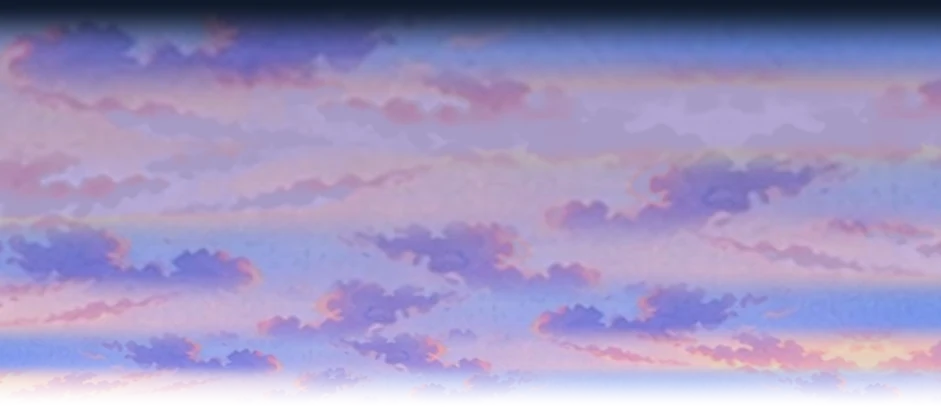
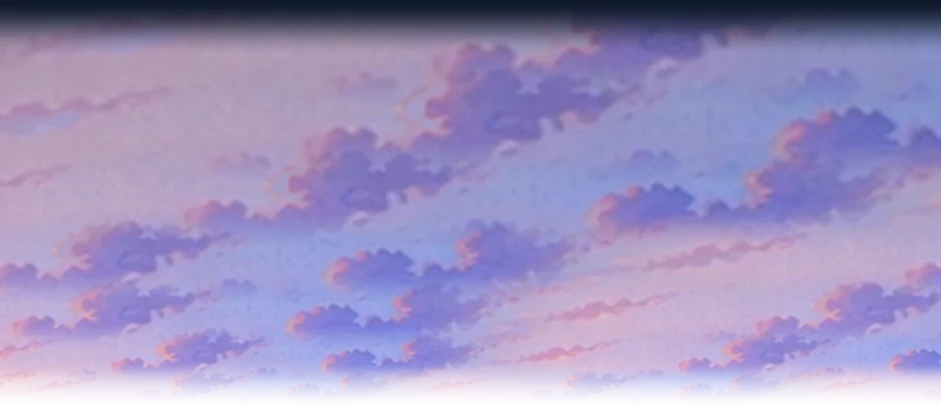
전망대 위 하늘: 뒤집어 잇던 조각 때문에 거울처럼 마주 보던 구름을 고침(낮은 진짜 구름을 하나씩 떼어 흩기), 좌우 걷기를 벌림·모음 네 박자로
Claude-Session: https://claude.ai/code/session_01Q4t6Q8VbibbExg6669yjah

diff --git a/scripts/town_sky.py b/scripts/town_sky.py
@@ -1,6 +1,6 @@
 """걷는 마을 지도 꼭대기 위로 이어 붙일 하늘 그림을 만든다.
 
-지도 맨 위 오른쪽의 진짜 하늘 조각(구름·별)을 잘라 좌우로 뒤집어 가며 이어 붙이고,
+지도 맨 위 오른쪽의 진짜 하늘 조각(구름·별)을 잘라 맑은 세로줄에서 이어 붙이고(뒤집으면 구름이 거울처럼 마주 본다),
 위로 갈수록 크게 키워 쌓는다(머리 위 구름이 더 크게 보이는 원근). 이음매는 겹쳐서 녹인다.
 아래 끝은 지도 위 끝과 겹치는 띠(점점 투명)라 지도와 닿는 곳에 선이 남지 않는다.
 
@@ -26,6 +26,12 @@ PATCH = {
     'dusk': (160, 941, 0, 46),
     'night': (130, 800, 0, 42),
 }
+# 구름이 드문 하늘(낮)은 이어 붙이면 이음매에서 구름이 잘린다. 대신 맑은 하늘을 하늘색 흐름으로 칠하고
+# 지도 속 구름을 하나씩 떼어(원본 픽셀 x0, x1, y0, y1 상자) 위로 갈수록 크게 흩어 놓는다.
+# 구름 아래는 산에 가려 잘려 있어 아래쪽을 흐리게 녹인다 (뭉게구름 밑은 원래 흐릿하다)
+SPRITES = {
+    'day': [(588, 738, 18, 88), (732, 872, 44, 104), (718, 792, 4, 32), (860, 941, 22, 72)],
+}
 # 조각 안에서 하늘색으로 지울 곳 (원본 픽셀 x0, x1, y0, y1). 가는 새털구름은 크게 키우면 찢어진 모양이 된다
 ERASE = {
     'day': [(690, 800, 0, 34), (850, 941, 0, 44)],
@@ -41,28 +47,89 @@ def smooth(t):
     return t * t * (3 - 2 * t)
 
 
-def row_strip(patch, width, scale, flip0, shift):
-    """하늘 조각을 scale 배로 키워 좌우로 뒤집어 가며 가로로 이어 붙인 띠"""
+def clear_cols(patch):
+    """조각에서 구름이 가장 적은 세로줄 둘(왼쪽 끝 근처, 오른쪽 끝 근처). 여기서 잘라 이으면 이음매가 맑은 하늘에 온다"""
+    p = patch.astype(float)
+    score = np.abs(p - p.mean(1, keepdims=True)).mean((0, 2))   # 줄 평균에서 벗어난 정도 = 구름
+    score = np.convolve(score, np.ones(9) / 9, 'same')
+    pw = len(score)
+    span = pw // 6
+    left = int(np.argmin(score[4:span])) + 4
+    right = pw - span + int(np.argmin(score[pw - span:pw - 4]))
+    return left, right
+
+
+def row_strip(patch, width, scale, shift):
+    """하늘 조각을 scale 배로 키워 가로로 이어 붙인 띠. 뒤집지 않는다(뒤집으면 이음매에서 구름이 거울처럼 마주 본다).
+    맑은 세로줄에서 잘라 끝과 끝을 짧게 겹쳐 녹인다"""
+    l, r = clear_cols(patch)
+    patch = patch[:, l:r]
     ph, pw = patch.shape[:2]
     p = np.asarray(Image.fromarray(patch).resize((int(pw * scale), int(ph * scale)), Image.LANCZOS)).astype(float)
     pw2 = p.shape[1]
-    over = max(8, pw2 // 6)
-    out = np.zeros((p.shape[0], width + pw2 * 2, 3))
+    over = max(8, pw2 // 4)
+    out = np.zeros((p.shape[0], width + pw2 * 3, 3))
     wsum = np.zeros((1, out.shape[1], 1))
-    x, k = 0, 0
+    x = 0
     while x < out.shape[1]:
-        tile = p[:, ::-1] if (k + flip0) % 2 else p
         w = np.ones(pw2)
         w[:over] = smooth(np.linspace(0, 1, over))
         w[-over:] = smooth(np.linspace(1, 0, over))
         x1 = min(out.shape[1], x + pw2)
-        out[:, x:x1] += tile[:, :x1 - x] * w[None, :x1 - x, None]
+        out[:, x:x1] += p[:, :x1 - x] * w[None, :x1 - x, None]
         wsum[:, x:x1] += w[None, :x1 - x, None]
         x += pw2 - over
-        k += 1
     out /= np.maximum(wsum, 1e-6)
     s = shift % pw2
     return out[:, s:s + width]
+
+
+def clouds(im, boxes):
+    """상자마다 구름을 떼어 RGBA 그림으로. 하늘색에서 먼 밝은 곳이 구름이고, 상자 가장자리와 아래는 녹인다"""
+    out = []
+    for x0, x1, y0, y1 in boxes:
+        reg = im[y0:y1, x0:x1]
+        sky = np.zeros_like(reg)
+        for y in range(reg.shape[0]):
+            row = reg[y]
+            clear = row[row.min(1) < 150]
+            sky[y] = np.median(clear, 0) if len(clear) else row.mean(0)
+        dist = np.sqrt(((reg - sky) ** 2).sum(2))
+        bright = smooth((reg.mean(2) - sky.mean(2) - 10) / 30)       # 산은 어두워서 빠진다
+        a = smooth((dist - 25) / 55) * bright
+        h, w = a.shape
+        ys = np.linspace(0, 1, h)[:, None]
+        xs = np.linspace(0, 1, w)[None, :]
+        win = smooth(xs / 0.14) * smooth((1 - xs) / 0.14) * smooth(ys / 0.06) * smooth((1 - ys) / 0.38)
+        a = a * win
+        rgba = np.concatenate([reg, (np.clip(a, 0, 1) * 255)[..., None]], 2).astype(np.uint8)
+        out.append(Image.fromarray(rgba, 'RGBA'))
+    return out
+
+
+def scatter(base, sprites, cap, rng):
+    """구름을 하늘에 흩는다. 아래(지도 쪽)는 작게, 위(머리 위)는 크게. 서로 많이 겹치지 않게"""
+    H, W = base.shape[:2]
+    canvas = Image.fromarray(np.clip(base, 0, 255).astype(np.uint8)).convert('RGBA')
+    placed = []
+    tries = 0
+    while len(placed) < 9 and tries < 800:
+        tries += 1
+        sp = sprites[int(rng.integers(len(sprites)))]
+        y = rng.uniform(H * 0.16, cap * 0.98)            # 구름 아래 끝
+        t = 1 - y / cap                                    # 0 아래 ~ 1 위
+        sc = min(1.0 + 1.3 * t, W * 0.55 / sp.width)
+        w, h = int(sp.width * sc), int(sp.height * sc)
+        x = rng.uniform(-w * 0.3, W - w * 0.7)
+        box = (x, y - h, x + w, y)
+        if any(not (box[2] < b[0] - 20 or box[0] > b[2] + 20 or box[3] < b[1] - 10 or box[1] > b[3] + 10) for b in placed):
+            continue
+        im = sp.resize((w, h), Image.LANCZOS)
+        if rng.random() < 0.5:
+            im = im.transpose(Image.FLIP_LEFT_RIGHT)   # 구름 하나를 통째로 뒤집는 건 괜찮다 (이음매가 없다)
+        canvas.alpha_composite(im, (int(x), int(y - h)))
+        placed.append(box)
+    return np.asarray(canvas.convert('RGB')).astype(float)
 
 
 def build(name):
@@ -98,7 +165,7 @@ def build(name):
     rng = np.random.default_rng(3)
     while bottom > 0:
         scale = 1.0 + 0.45 * layer
-        strip = row_strip(patch, W, scale, layer % 2, int(rng.integers(0, 2000)))
+        strip = row_strip(patch, W, scale, int(rng.integers(0, 2000)))
         sh = strip.shape[0]
         over = max(6, sh // 2)
         top = bottom - sh
@@ -115,6 +182,12 @@ def build(name):
     t = smooth(np.linspace(1, 0, total) ** 0.8)[:, None, None]
     grad = c_bottom * (1 - t) + c_top * t
     sky += grad - patch.mean((0, 1))
+    if name in SPRITES:
+        # 맑은 하늘은 지도 맨 위 맑은 곳 색에서 위로 짙어지는 흐름, 그 위에 떼어 낸 구름
+        row0 = im[0:4, x0:x1].reshape(-1, 3)
+        clear0 = np.median(row0[row0.min(1) < 150], 0)
+        grad = clear0 * (1 - t) + clear0 * 0.8 * t
+        sky = scatter(np.broadcast_to(grad, (total, W, 3)).copy(), clouds(im, SPRITES[name]), cap, np.random.default_rng(11))
     if name in CALM:
         lav = np.array(CALM[name], float)
         warm = smooth((sky[..., 0] - sky[..., 2] + 5) / 40.0)[..., None]   # 빨강이 파랑보다 센 곳 = 노을빛

diff --git a/godot/scripts/Screens/TownScreen.cs b/godot/scripts/Screens/TownScreen.cs
@@ -863,7 +863,7 @@ namespace Hanjeopsi.App.Screens
                 _route.RemoveAt(0);
             }
             else _yeoulAt += d.Normalized() * stepLen;
-            // 걸음: 옆으로 가면 걷기 두 장(왼쪽이면 뒤집기), 위로 오르면 뒷모습, 내려오면 앞모습 걷기 두 장 (scripts/sd_step.py)
+            // 걸음: 옆으로 가면 벌림·모음 두 장(왼쪽이면 뒤집기), 위로 오르면 뒷모습, 내려오면 앞모습 걷기 두 장 (scripts/sd_step.py)
             int before = (int)_step;
             _step += stepLen / (16 * k);
             if ((int)_step != before) Sound.Play("step", -10 - ((int)_step % 2) * 2);
@@ -875,7 +875,9 @@ namespace Hanjeopsi.App.Screens
             }
             else
             {
-                pose = "yeoul/walk-" + ((int)_step % 2 + 1);
+                // 옆 걷기는 네 박자: 다리 벌림 → 모음(옆모습) → 벌림 → 모음. 벌린 그림 두 장만 번갈면 다리가 오가지 않아 미끄러져 보였다
+                // (walk-2 는 웃는 얼굴이라 섞으면 얼굴이 깜빡인다)
+                pose = (int)_step % 2 == 0 ? "yeoul/walk-1" : "yeoul/side";
                 _yeoul.FlipH = d.X < 0;
             }
             SwapYeoul(Tex(pose));

diff --git a/docs/POLISH.md b/docs/POLISH.md
@@ -80,6 +80,8 @@
 - [x] 아침·저녁 지도가 바뀌어 보인다: 해 뜨는 주황 그림을 아침(`town-map-morning`), 분홍·연보라 그림을 저녁(`town-map-dusk`)으로 맞바꿨다 (폰, 빌드 #128)
 - [x] 저녁 하늘 위쪽까지 노을빛이 번졌다. 이어 붙인 하늘의 구름 사이 주황·분홍빛을 연보라로(구름은 그대로), 산·바다와 닿는 아래만 노을빛 (`town_sky.py CALM`). 점심 하늘의 찢어진 새털구름은 조각에서 지웠다 (`ERASE`) (폰, 빌드 #128)
 - [x] 위아래로 걸을 때 여울이 떠서 미끄러지는 것 같다(언덕길이라 거의 위아래). 앞·뒤 그림에서 다리를 한쪽씩 들어 올린 걷기 두 장씩(`yeoul/walk-front-1/2`, `walk-back-1/2`, `scripts/sd_step.py`). 진짜 걷기 시트(SD 3-1)가 오면 같은 이름으로 바꾼다 (폰, 빌드 #128)
+- [x] 전망대 위 하늘 구름이 이상하다(조각을 좌우로 뒤집어 이어 이음매에서 구름이 거울처럼 마주 봤다). 뒤집지 않고 맑은 세로줄에서 넓게 겹쳐 잇는다. 구름이 드문 낮은 맑은 하늘을 하늘색 흐름으로 칠하고 지도 속 뭉게구름 넷을 하나씩 떼어(밑은 흐리게) 위로 갈수록 크게 흩었다 (`town_sky.py SPRITES`) (폰, 빌드 #129)
+- [x] 좌우 걷기가 그대로다: 다리 벌린 두 장(`walk-1`, 웃는 `walk-2`)만 번갈아 다리가 오가지 않았다. 벌림(`walk-1`) → 모음(`side`) 네 박자로 (폰, 빌드 #129)
 
 ## 4. 위판장
 
